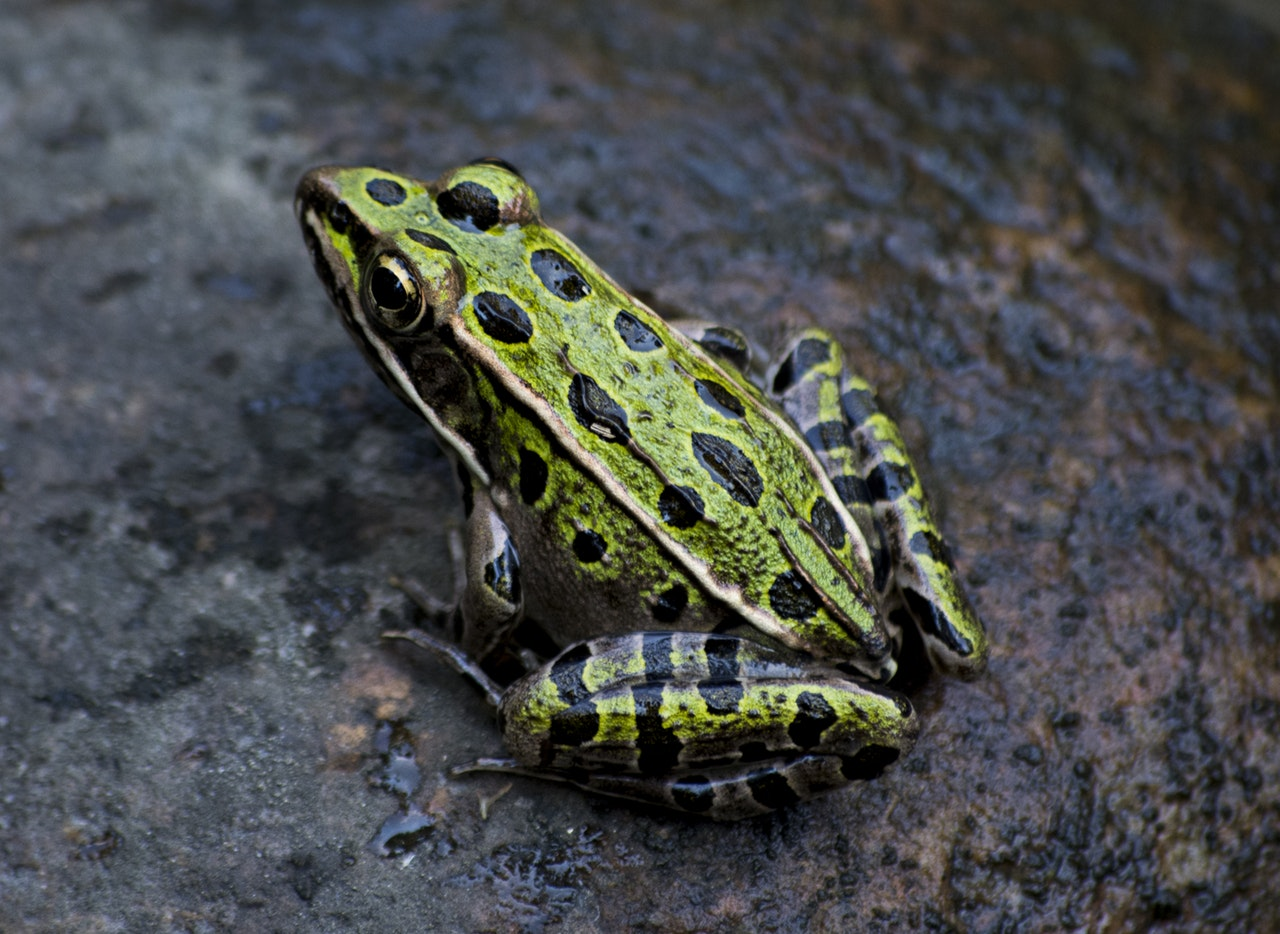
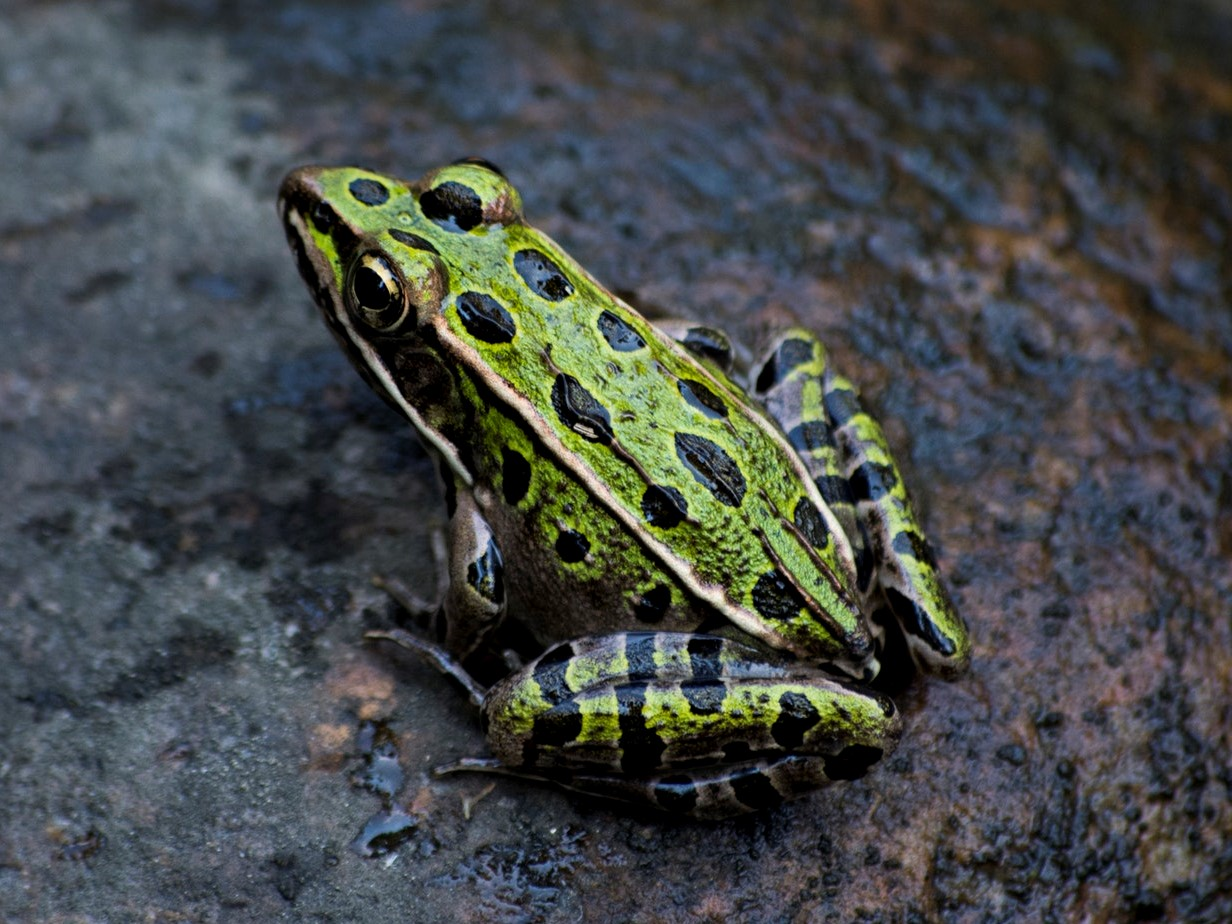
added responsive images

diff --git a/portfolio.html b/portfolio.html
@@ -59,50 +59,41 @@
                                 <div class="row">
                                     <div class="col-md-4">
                                         <div class="myCard">
-                                            <img class="card-img-top portfolioCard" src="assets/images/frog1.jpeg" alt="Frog1">
+                                            <img class="card-img-top portfolioCard img-fluid" src="assets/images/frog1.jpeg" alt="Frog1">
                                             <p class="cardLabel">Frog1</p>
                                         </div>
                                     </div>
                                     <div class="col-md-4">
                                         <div class="myCard">
-                                            <img class="card-img-top portfolioCard" src="assets/images/frog2.jpeg" alt="Frog2">
+                                            <img class="card-img-top portfolioCard img-fluid" src="assets/images/frog2.jpeg" alt="Frog2">
                                             <p class="cardLabel">Frog1</p>
                                         </div>
                                     </div>
-                                    <div class="col-md-4">
-                                        <!--empty-->
-                                    </div>
+
                                 </div>
                                 <div class="row">
                                     <div class="col-md-4">
                                         <div class="myCard">
-                                            <img class="card-img-top portfolioCard" src="assets/images/frog3.jpeg" alt="Frog3">
+                                            <img class="card-img-top portfolioCard img-fluid" src="assets/images/frog3.jpeg" alt="Frog3">
                                             <p class="cardLabel">Frog1</p>
                                         </div>
                                     </div>
                                     <div class="col-md-4">
                                         <div class="myCard">
-                                            <img class="card-img-top portfolioCard" src="assets/images/frog4.jpeg" alt="Frog4">
+                                            <img class="card-img-top portfolioCard img-fluid" src="assets/images/frog4.jpeg" alt="Frog4">
                                             <p class="cardLabel">Frog1</p>
                                         </div>
                                     </div>
-                                    <div class="col-md-4">
-                                        <!--empty-->
-                                    </div>
+
                                 </div>
                                 <div class="row">
                                     <div class="col-md-4">
                                         <div class="myCard">
-                                            <img class="card-img-top portfolioCard" src="assets/images/frog5.jpeg" alt="Frog5">
+                                            <img class="card-img-top portfolioCard img-fluid" src="assets/images/frog5.jpeg" alt="Frog5">
                                             <p class="cardLabel">Frog1</p>
                                         </div>
                                     </div>
-                                    <div class="col-md-4">
-                                        <!--empty-->    
-                                    </div>
-                                    <div class="col-md-4">
-                                        <!--empty-->
-                                    </div>
+
                                 </div>
                             </div>
                     </div>

diff --git a/assets/style/style.css b/assets/style/style.css
@@ -89,7 +89,8 @@
 }
 
 .portfolioCard{
-    height:150px;
+    max-width:100%;
+    height:auto;
 }
 
 .myCard:hover{
